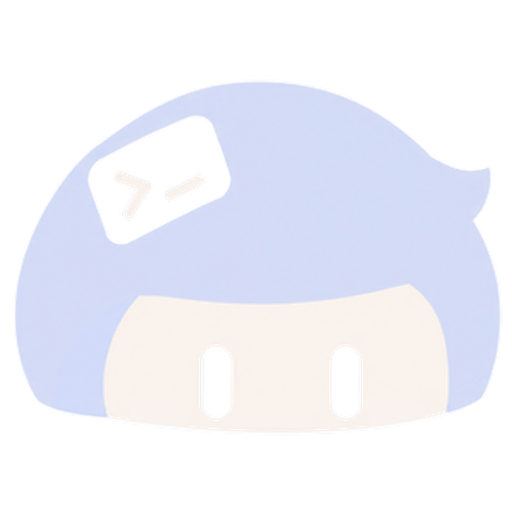
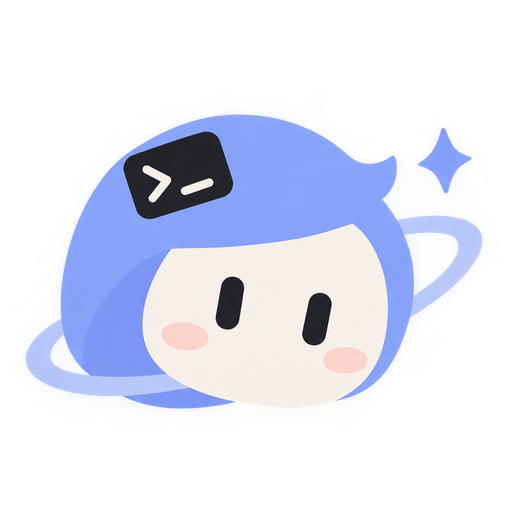
feat(brand): the mascot, as drawn
The project's mark is the mascot Carl picked: a periwinkle planet with a cream
face, a ring, a sparkle and a terminal prompt on its brow. It replaces the mark
cut out of the older logo sheet, and it comes with the pipeline that keeps it
consistent.

- resources/brand/mark.png is the mascot master, cropped to what is drawn and
  squared. resources/brand/make-assets.py rebuilds the four surfaces from it —
  resources/icon.png (1024, the app icon), .github/assets/logo.png (512, what the
  README shows), web/public/favicon.png (128), and cmd/tfdesktop/assets/mark.png
  (512, what the window's strip and empty state draw) — and takes a new render as
  its argument when the art changes again, keeping the master in the repository
  so the surfaces can be rebuilt without the original.
- The tiles use the mascot as drawn instead of recolouring it per surface. That
  is why the icon, the README logo and the favicon are now the same picture on
  the shell's ink: the face is cream (248, 241, 234), so on a white tile — or on
  the transparent ground a README has on GitHub's light theme — it would run into
  the page. On the ink tile the whole mascot reads, its dark terminal card
  included, because that card sits on the periwinkle body rather than on the
  tile. The window's own copy is the art without a tile: it is drawn on the rail,
  which is already the dark ground it needs.
- The ring around a shell someone else is driving is quieter — a thinner line, a
[…]

diff --git a/resources/brand/make-assets.py b/resources/brand/make-assets.py
@@ -1,189 +1,126 @@
 #!/usr/bin/env python3
-"""Rebuild term-fleet's brand art from the logo sheet.
+"""Rebuild term-fleet's brand art from the mascot master.
 
-The mark is the middle tile of the sheet's third row: Carl picked it, and the
-sheet only exists as a raster render (dark background, soft glow), so nothing
-here is a vector trace — the mark is rebuilt from the sheet's own pixels and
-re-coloured, which keeps the glow and the two flat colours exactly as drawn.
+The master is the mascot Carl picked — a periwinkle planet with a cream face, a
+ring and a terminal card — delivered as a square render on a transparent ground.
+Nothing here traces or recolours it: the art is used exactly as drawn, and this
+script only decides how big it is on each surface.
 
-Reads:  the sheet (a 3x3 grid of variants) at SHEET, or the extracted master at
-        resources/brand/mark.png once it exists.
+That the art is used as drawn is why every surface gets a dark tile. The mascot's
+face is cream (248, 241, 234) and its silhouette is periwinkle: on a white tile
+the face would run into the page, and on the transparent ground of a README it
+would disappear on GitHub's light theme. On the shell's ink the whole mascot
+reads, its dark terminal card included, because that card sits on the periwinkle
+body rather than on the tile.
+
+Reads:  resources/brand/mark.png (the master, transparent, square).
 Writes: resources/icon.png, .github/assets/logo.png, web/public/favicon.png,
-        resources/brand/mark.png (the master).
+        cmd/tfdesktop/assets/mark.png.
+        With a source image given, resources/brand/mark.png as well: the source
+        cropped to what is drawn, squared, and kept at 1024.
 
 Needs Pillow. Run from the repository root:
 
-    python3 resources/brand/make-assets.py [sheet.png]
-
-The sheet is not kept in the repository (it is a 1.4 MB render); pass its path
-the first time, or drop the extracted master in place and run it with no
-argument.
+    python3 resources/brand/make-assets.py [new-mascot.png]
 """
 
 import os
 import sys
 
-import numpy as np
 from PIL import Image, ImageDraw
 
 ROOT = os.path.dirname(os.path.dirname(os.path.dirname(os.path.abspath(__file__))))
 MASTER = os.path.join(ROOT, "resources", "brand", "mark.png")
+MASTER_SIZE = 1024
 
-# The tile Carl picked, counted the way a person counts: third row, second
-# column. The grid is found from the sheet itself, so this is all that has to be
-# known about the source.
-CELL_ROW, CELL_COL = 3, 2
-
-SHEET_BG = np.array([32, 32, 39])  # the sheet's own background
-BLUE = np.array([150, 176, 250])  # the sheet's accent
-WARM = np.array([249, 242, 237])  # the sheet's glyph
-
-# The shell's palette, which the app icon and the rail already use.
+# The shell's own ink, which the window, the rail and the app icon all use.
 INK = (22, 26, 34)
-ACCENT_ON_WHITE = (91, 118, 232)  # the accent darkened to read on white
-TILE_RADIUS = 0.204  # the old icon's corner radius, as a share of its side
-MARK_SHARE = 0.62  # how much of the tile's width the mark takes
+TILE_RADIUS = 0.204  # the corner the app icon has had since v0.2.0
+# How much of a tile's width the mascot takes. The art is wider than it is tall
+# (about 1.5:1), so a share near 0.9 leaves the margin a tile wants above and
+# below it — the art's own ring and sparkle hold the edge — without shrinking the
+# face into the middle of the tile.
+ICON_SHARE = 0.9
+LOGO_SHARE = 0.92
+FAVICON_SHARE = 0.95
+# The window's own copy of the mark is smaller than the master: the strip draws
+# it 30 DIPs wide and the empty state 56, so 512 is already more than any screen
+# asks for, and it is embedded in the binary.
+WINDOW_MARK_SIZE = 512
+WINDOW_MARK_SHARE = 0.96
 
 
-def bands(profile, threshold):
-    """The runs of rows/columns that carry ink, which is how the grid is found."""
-    out, start = [], None
-    for i, value in enumerate(profile):
-        if value > threshold and start is None:
-            start = i
-        elif value <= threshold and start is not None:
-            out.append((start, i - 1))
-            start = None
-    if start is not None:
-        out.append((start, len(profile) - 1))
-    return [b for b in out if b[1] - b[0] > 20]
+def cropped_master():
+    """The master, cropped to what is actually drawn and squared up."""
+    return squared(Image.open(MASTER))
 
 
-def cell_box(sheet):
-    """The pixel box of the chosen tile, found by projecting the sheet's ink."""
-    ink = np.abs(sheet - SHEET_BG).sum(axis=2) > 40
-    rows = bands(ink.sum(axis=1), max(3, sheet.shape[1] // 200))
-    cols = bands(ink.sum(axis=0), max(3, sheet.shape[0] // 200))
-    if len(rows) != 3 or len(cols) != 3:
-        raise SystemExit(f"expected a 3x3 sheet, found {len(rows)}x{len(cols)} tiles")
-    row, col = rows[CELL_ROW - 1], cols[CELL_COL - 1]
-    return col[0], row[0], col[1] + 1, row[1] + 1
-
-
-def mark_from_sheet(sheet):
-    """The mark as (coverage, whiteness): how much of the mark covers a pixel,
-    and how far that pixel sits between the accent and the glyph."""
-    x0, y0, x1, y1 = cell_box(sheet)
-    tile = sheet[y0:y1, x0:x1].astype(np.float64)
-
-    gap = np.abs(tile - SHEET_BG).sum(axis=2)
-    # The glyph is the furthest colour from the background, so it sets the scale
-    # at which a pixel counts as fully covered.
-    solid = np.abs(WARM - SHEET_BG).sum()
-    coverage = np.clip((gap - 8) / (solid - 8), 0, 1)
-
-    # Un-premultiply against the sheet's background, so a half-lit glow pixel
-    # keeps the accent's own colour instead of turning muddy.
-    safe = np.maximum(coverage, 1e-6)[..., None]
-    colour = np.clip((tile - SHEET_BG * (1 - safe)) / safe, 0, 255)
-
-    axis = WARM - BLUE
-    whiteness = np.clip(((colour - BLUE) @ axis) / (axis @ axis), 0, 1)
-
-    # Crop to the mark's own bounds, with a margin that keeps the glow's edge
-    # from touching the tile it is drawn on, and keep the square aspect: the
-    # mark is wider than it is tall, and every surface below wants a square.
-    ys, xs = np.nonzero(coverage > 0.4)
-    cx, cy = (xs.min() + xs.max()) / 2, (ys.min() + ys.max()) / 2
-    side = max(xs.max() - xs.min(), ys.max() - ys.min()) * 1.06
-    half = side / 2
-    ox, oy = int(round(cx - half)), int(round(cy - half))
-    size = int(round(side))
-
-    def crop(channel):
-        # The margin can reach past the tile's edge, so place the part that
-        # exists instead of slicing with a negative index, which would silently
-        # read from the far side of the tile.
-        pad = np.zeros((size, size), dtype=np.float64)
-        x_from, y_from = max(ox, 0), max(oy, 0)
-        x_to, y_to = min(ox + size, channel.shape[1]), min(oy + size, channel.shape[0])
-        if x_to > x_from and y_to > y_from:
-            pad[y_from - oy : y_to - oy, x_from - ox : x_to - ox] = channel[y_from:y_to, x_from:x_to]
-        return pad
-
-    return crop(coverage), crop(whiteness)
-
-
-def resize(channel, size):
-    """Upscale a coverage/whiteness plane on its own, so the flat colours below
-    stay flat and only the edges soften."""
-    img = Image.fromarray((np.clip(channel, 0, 1) * 255).astype(np.uint8), "L")
-    return np.asarray(img.resize((size, size), Image.LANCZOS)).astype(np.float64) / 255
-
-
-def draw_mark(canvas, coverage, whiteness, glyph, accent, share):
-    """Composite the mark onto a square canvas, centred and scaled to share."""
-    side = int(round(canvas.width * share))
-    cov = resize(coverage, side)
-    white = resize(whiteness, side)
-    rgb = np.zeros((side, side, 4))
-    rgb[..., :3] = np.array(accent) * (1 - white[..., None]) + np.array(glyph) * white[..., None]
-    rgb[..., 3] = cov * 255
-    mark = Image.fromarray(rgb.astype(np.uint8), "RGBA")
-    canvas.alpha_composite(mark, ((canvas.width - side) // 2, (canvas.height - side) // 2))
+def squared(art):
+    """Crop an image to what is drawn, centre it in a square of its long side."""
+    art = art.convert("RGBA")
+    box = art.getbbox()
+    if box is None:
+        raise SystemExit(f"{MASTER} is empty")
+    art = art.crop(box)
+    side = max(art.width, art.height)
+    canvas = Image.new("RGBA", (side, side), (0, 0, 0, 0))
+    canvas.alpha_composite(art, ((side - art.width) // 2, (side - art.height) // 2))
     return canvas
 
 
-def rounded_tile(size, colour, radius):
-    tile = Image.new("RGBA", (size, size), (0, 0, 0, 0))
-    ImageDraw.Draw(tile).rounded_rectangle(
+def tile(size, colour, radius=TILE_RADIUS):
+    plate = Image.new("RGBA", (size, size), (0, 0, 0, 0))
+    ImageDraw.Draw(plate).rounded_rectangle(
         (0, 0, size - 1, size - 1), radius=radius * size, fill=colour + (255,)
     )
-    return tile
+    return plate
 
 
-def square(size, colour):
-    return Image.new("RGBA", (size, size), colour + (255,))
+def draw(plate, art, share):
+    """Composite the mascot, centred, taking share of the plate's width."""
+    width = int(round(plate.width * share))
+    height = int(round(width * art.height / art.width))
+    mascot = art.resize((width, height), Image.LANCZOS)
+    plate.alpha_composite(mascot, ((plate.width - width) // 2, (plate.height - height) // 2))
+    return plate
 
 
 def main():
     if len(sys.argv) > 1:
-        sheet = np.asarray(Image.open(sys.argv[1]).convert("RGB")).astype(np.float64)
-        coverage, whiteness = mark_from_sheet(sheet)
-        master = Image.fromarray(
-            np.dstack([
-                np.array(BLUE) * (1 - whiteness[..., None]) + np.array(WARM) * whiteness[..., None],
-                coverage * 255,
-            ]).astype(np.uint8),
-            "RGBA",
-        )
-        master.resize((512, 512), Image.LANCZOS).save(MASTER)
-    else:
-        master = Image.open(MASTER).convert("RGBA")
-        arr = np.asarray(master).astype(np.float64)
-        coverage = arr[..., 3] / 255
-        colour = arr[..., :3]
-        axis = WARM - BLUE
-        whiteness = np.clip(((colour - BLUE) @ axis) / (axis @ axis), 0, 1)
+        # A new mascot: keep it as the master, so the surfaces below can be
+        # rebuilt from it later without the original render. It is square by
+        # then, so scaling is all that is left.
+        master = squared(Image.open(sys.argv[1]))
+        if master.width != MASTER_SIZE:
+            master = master.resize((MASTER_SIZE, MASTER_SIZE), Image.LANCZOS)
+        master.save(MASTER)
 
-    # The app icon: the shell's own dark tile, with the mark as the sheet drew
-    # it — accent and glyph both.
-    icon = draw_mark(
-        rounded_tile(1024, INK, TILE_RADIUS), coverage, whiteness, WARM, BLUE, MARK_SHARE
+    art = cropped_master()
+
+    # The app icon and the browser favicon: the ink tile the app already wears,
+    # with the mascot on it as drawn.
+    draw(tile(1024, INK), art, ICON_SHARE).save(os.path.join(ROOT, "resources", "icon.png"))
+    draw(tile(128, INK), art, FAVICON_SHARE).save(
+        os.path.join(ROOT, "web", "public", "favicon.png")
     )
-    icon.save(os.path.join(ROOT, "resources", "icon.png"))
 
-    # The README's logo and the web favicon: the white tile the brand has used
-    # since v0.2.0, with the glyph in ink and the accent darkened to read on it.
-    draw_mark(square(512, (255, 255, 255)), coverage, whiteness, INK, ACCENT_ON_WHITE, MARK_SHARE).save(
+    # The README's logo is the same tile, so what the repository shows and what
+    # the app shows are the same picture.
+    draw(tile(512, INK), art, LOGO_SHARE).save(
         os.path.join(ROOT, ".github", "assets", "logo.png")
     )
-    favicon = draw_mark(
-        rounded_tile(128, (255, 255, 255), TILE_RADIUS), coverage, whiteness, INK, ACCENT_ON_WHITE, 0.66
-    )
-    favicon.save(os.path.join(ROOT, "web", "public", "favicon.png"))
 
-    print("wrote resources/icon.png, .github/assets/logo.png, web/public/favicon.png")
+    # The window draws the mascot on its own ink rail, so its copy is the art
+    # without a tile, and small: the strip is 30 DIPs tall.
+    window = Image.new("RGBA", (WINDOW_MARK_SIZE, WINDOW_MARK_SIZE), (0, 0, 0, 0))
+    draw(window, art, WINDOW_MARK_SHARE).save(
+        os.path.join(ROOT, "cmd", "tfdesktop", "assets", "mark.png")
+    )
+
+    print(
+        "wrote resources/icon.png, .github/assets/logo.png, "
+        "web/public/favicon.png, cmd/tfdesktop/assets/mark.png"
+    )
 
 
 if __name__ == "__main__":

diff --git a/CHANGELOG.md b/CHANGELOG.md
@@ -6,7 +6,23 @@ pushed tag straight into the GitHub release notes, so keep the headings exactly
 
 ## Unreleased
 
+**Brand**
+
+- The project wears the mascot: a periwinkle planet with a cream face, a ring and
+  a terminal prompt on its brow. It replaces the mark cut out of the logo sheet,
+  and it is used as drawn rather than recoloured per surface — which is why the
+  app icon, the README's logo and the browser favicon are now the same picture on
+  the shell's ink. The mascot's face is cream: on a white tile, or on the
+  transparent ground a README has on GitHub's light theme, it would run into the
+  page. `resources/brand/make-assets.py` rebuilds all three from the master, and
+  takes a new render as its argument when the art changes again.
+
 **Desktop app**
+
+- The ring around a shell being driven from elsewhere is quieter: a thinner line,
+  a slower flow and a dimmer bloom than the chat-glow example's composer ring,
+  which is drawn to be looked at. (The artist's own reference for this state is
+  still pending — this is the window's own reading of "a signal, not a show".)
 
 - A machine taking its shell back ends the connection, on the machine that was
   driving it: the tabs it had open there close, the link to that machine is
